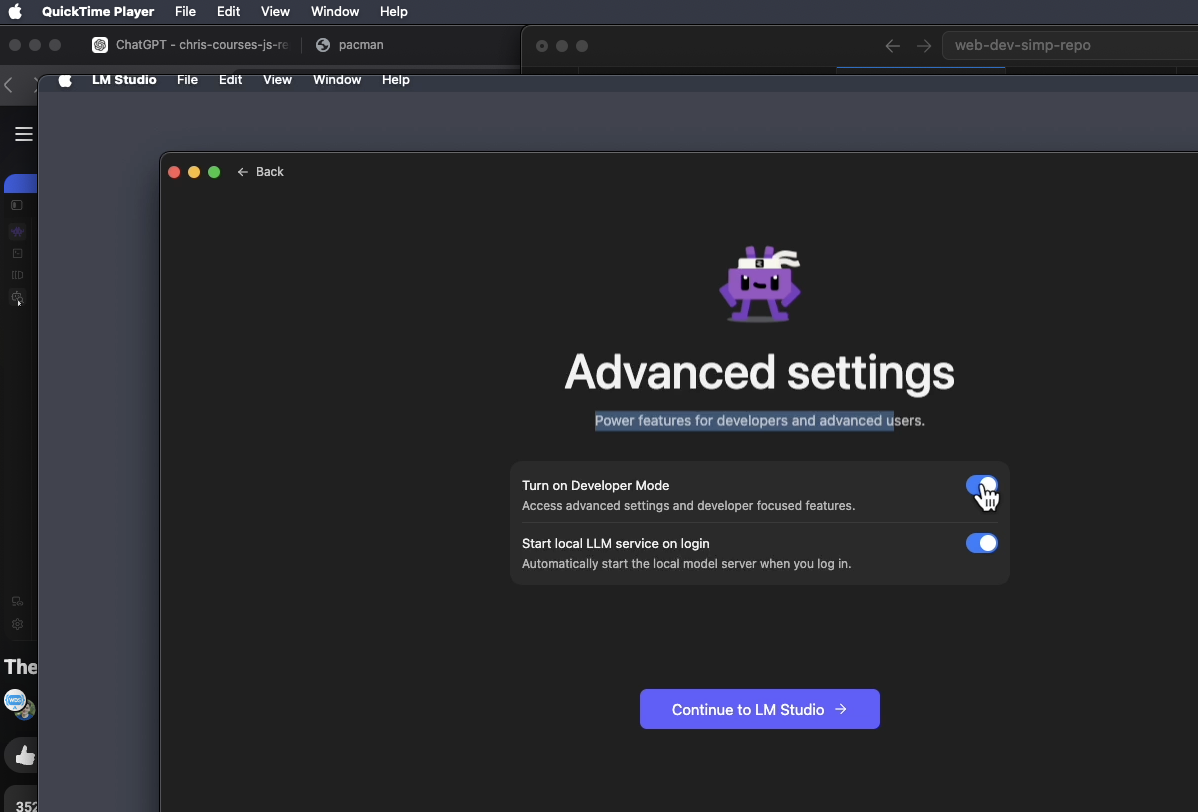
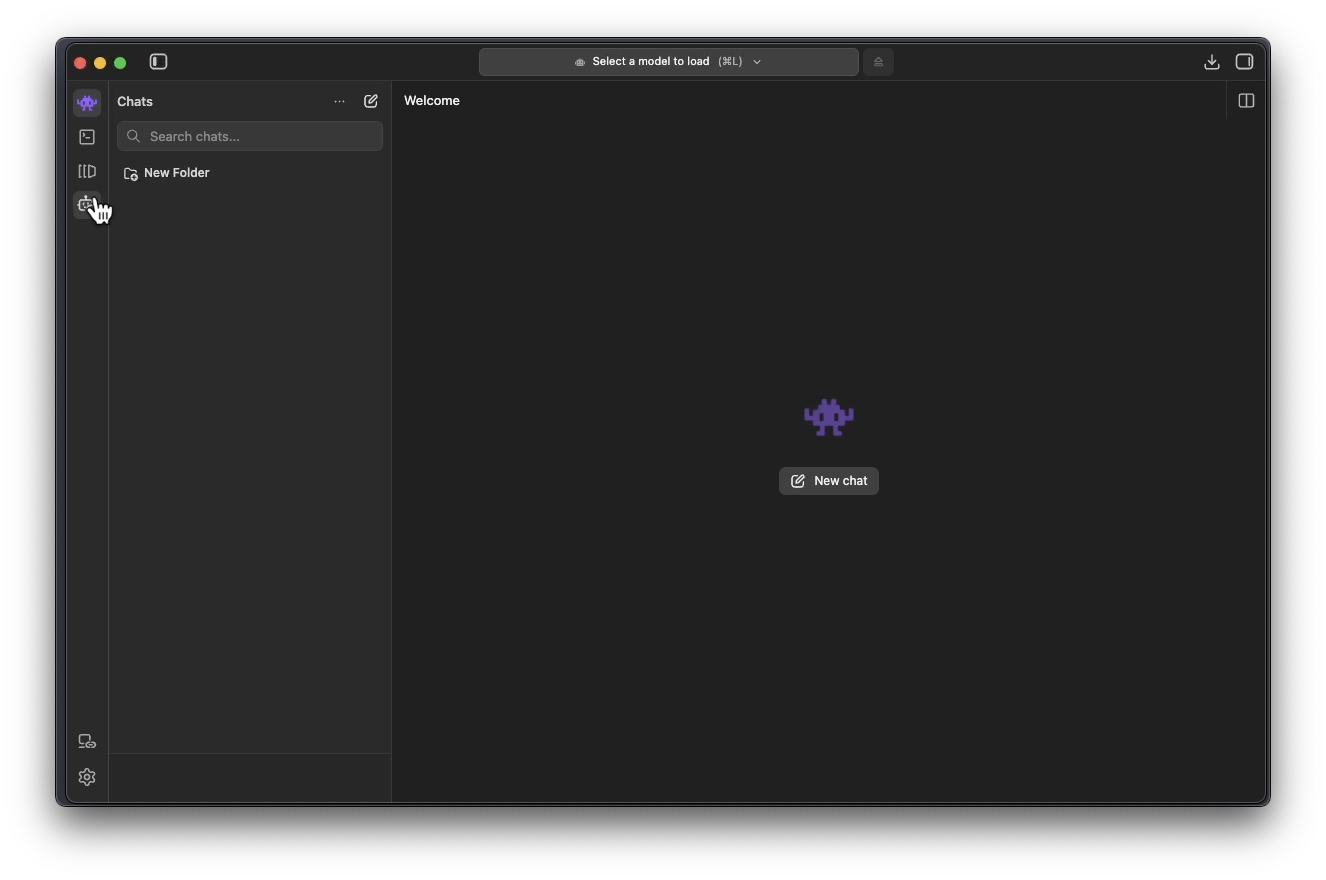
main

diff --git a/topics/01-free-local-llms/side-bar-links-html/01/01.html b/topics/01-free-local-llms/side-bar-links-html/01/01.html
@@ -4,49 +4,60 @@
     <header>
         <h3 id="targetHeaderh3">1. Setup</h3>
     </header>
-    <div class="main-container">
-        <div class="steps-container">
-            <!-- 1.-->
-            <div  tabindex="0" class="step-float" data-video="https://www.youtube.com/watch?v=UngVdAsQEiU" 
-                data-timestamp="335">
+    <div class="steps-container">
+        <!-- 1.-->
+        <div  tabindex="0" class="step-float" data-video="https://www.youtube.com/watch?v=UngVdAsQEiU" 
+            data-timestamp="335">
+            <div class="img-container">
+                <div class="step-vid ">
+                    <video preload="none" playsinline webkit-playsinline poster="side-bar-links-html/01/01-01/images/01.png"
+                        src="side-bar-links-html/01/01-01/images/01.mov"></video>
+                
+                    <div class="vid-cntrl-btns">
+                        <button class="fwdBtn">&lt;&lt;</button>
+                        <button class="playbtn">></button>
+                        <button class="rwdBtn">>></button>
+                    </div>
+                </div>
                 <div class="step-img">
                     <img loading="lazy" src="side-bar-links-html/01/images/01.png" alt="">
                 </div>
-                <div class="step-txt ">
-                    <h4>01</h4>
-                    <p>
-                        Download <i>LM Studio </i> from 
-                        <a rel="noopener noreferrer" target="_blank" href="https://lmstudio.ai/">
-https://lmstudio.ai/
-                        </a>
-                        <p>
-                            **Make sure developer mode is on when you first open
-                        </p>
-                        <p>
-                            see 01-01 step 1 put that here in imgs-container with video, make it work like 
-                            in  <a href="">tech-with-tim-repo</a>
-                             video controls and imgs-container
-                        </p>
-                    </p>
-                
-                </div>
-            </div>
-            <div tabindex="0" class="step-float" data-video="https://www.youtube.com/watch?v=UngVdAsQEiU" 
-                data-timestamp="348">
-                <div class="step-img">
-                    <img loading="lazy" src="side-bar-links-html/01/images/02.png" alt="">
-                </div>
-                <div class="step-txt ">
-                    <h4>02</h4>
-                    <p>
-                        You can find models to use at huggin face
-                        <a rel="noopener noreferrer" target="_blank" href="https://huggingface.co/models">
-                            https://huggingface.co/models
-                        </a>
-                    </p>
-                </div>
-            </div>
 
-    </div>
+            </div>
+            <div class="step-txt ">
+                <h4>01</h4>
+                <p>
+                    Download <i>LM Studio </i> from 
+                    <a rel="noopener noreferrer" target="_blank" href="https://lmstudio.ai/">
+https://lmstudio.ai/
+                    </a>
+                    <p>
+                        **Make sure developer mode is on when you first open
+                    </p>
+                    <p>
+                        see 01-01 step 1 put that here in imgs-container with video, make it work like 
+                        in  <a href="">tech-with-tim-repo</a>
+                            video controls and imgs-container
+                    </p>
+                </p>
+            <h5 class="r">Fix imgs-container</h5>
+            </div>
+        </div>
+        <div tabindex="0" class="step-float" data-video="https://www.youtube.com/watch?v=UngVdAsQEiU" 
+            data-timestamp="348">
+            <div class="step-img">
+                <img loading="lazy" src="side-bar-links-html/01/images/02.png" alt="">
+            </div>
+            <div class="step-txt ">
+                <h4>02</h4>
+                <p>
+                    You can find models to use at huggin face
+                    <a rel="noopener noreferrer" target="_blank" href="https://huggingface.co/models">
+                        https://huggingface.co/models
+                    </a>
+                </p>
+            </div>
+        </div>
+
     </div>
 </div>

diff --git a/topics/01-free-local-llms/side-bar-links-html/01/01-01/01-01.html b/topics/01-free-local-llms/side-bar-links-html/01/01-01/01-01.html
@@ -2,41 +2,15 @@
 <div id="targetDiv">
     <div class="main-container">
         <header>
-            <h3 id="targetHeaderh3" >1.1 model in Lm Studio </h3>
+            <h3 id="targetHeaderh3" >01-02 figure out </h3>
         </header>
         <div class="steps-container">
             <!-- 1. -->
-            <div data-autofocus tabindex="0" class="step-float" data-video="https://www.youtube.com/watch?v=UngVdAsQEiU"
-                data-timestamp="359">
+            <div tabindex="0" class="step-float" data-video="https://www.youtube.com/watch?app=desktop&v=pg19Z8LL06w"
+                data-timestamp="367">
                 <div class="step-vid ">
                     <video preload="none" playsinline webkit-playsinline poster="side-bar-links-html/01/01-01/images/01.png"
                         src="side-bar-links-html/01/01-01/images/01.mov"></video>
-
-                    <div class="vid-cntrl-btns">
-                        <button class="fwdBtn">&lt;&lt;</button>
-                        <button class="playbtn">></button>
-                        <button class="rwdBtn">>></button>
-                    </div>
-                </div>
-                <div class="step-content ">
-                    <h4>1</h4>
-                    <p>
-                        **Make sure developer mode is on when you first open
-                    </p>
-                    <p>
-                        when you first open LM, studio, you will not be
-                        able to select a model 
-                    </p>
-                   
-                </div>
-                
-            </div>
-            <!-- 2. -->
-            <div tabindex="0" class="step-float" data-video="https://www.youtube.com/watch?v=UngVdAsQEiU" 
-                data-timestamp="367">
-                <div class="step-vid ">
-                    <video preload="none" playsinline webkit-playsinline poster="side-bar-links-html/01/01-01/images/02.png"
-                        src="side-bar-links-html/01/01-01/images/02.mov"></video>
                 
                     <div class="vid-cntrl-btns">
                         <button class="fwdBtn">&lt;&lt;</button>
@@ -49,20 +23,19 @@
                     <p>
                         Click models tab in the left side to search for models
                     </p>
-                    
+                
                 </div>
             </div>
-            <!-- 3. -->
-            <div tabindex="0" class="step-float" data-video="https://www.youtube.com/watch?v=UngVdAsQEiU"
+            <!-- 2. -->
+            <div tabindex="0" class="step-float" data-video="https://www.youtube.com/watch?app=desktop&v=pg19Z8LL06w"
                 data-timestamp="380">
                 <div class="step-img">
-                    <img loading="lazy" src="side-bar-links-html/01/01-01/images/01.png" alt="">
-                </div>
-                    
+                    <img loading="lazy" src="side-bar-links-html/01/01-01/images/02.png" alt="">
+                </div>                
                 <div class="step-content ">
-                    <h4>3</h4>
+                    <h4>2</h4>
                     <p>
-                        He searches and is using 
+                        He searches and is using
                     </p>
                     <div class="code-container">
                         <pre readonly tabindex="0" class="copy-code">qwen</pre>
@@ -70,6 +43,29 @@
                     <p>
                         in this tutorial
                     </p>
+                </div>
+            </div>
+            <!-- 3. -->
+            <div tabindex="0" class="step-float" data-video="https://www.youtube.com/watch?app=desktop&v=pg19Z8LL06w"
+                data-timestamp="380">
+                <div class="step-vid ">
+                    <video preload="none" playsinline webkit-playsinline poster="side-bar-links-html/01/01-01/images/03.png"
+                        src="side-bar-links-html/01/01-01/images/03.mov"></video>
+                
+                    <div class="vid-cntrl-btns">
+                        <button class="fwdBtn">&lt;&lt;</button>
+                        <button class="playbtn">></button>
+                        <button class="rwdBtn">>></button>
+                    </div>
+                </div>
+                <div class="step-content ">
+                    <h4>03</h4>
+                    <p>
+                  Each model has,usually, parameter in name, size is located under 'Download Options',
+                  click to view <i>Quantiziation options</i>,
+
+                    </p>
+                    
                 </div>
             </div>
             

diff --git a/topics/01-free-local-llms/side-bar-links-html/01/01-02/01-02.html b/topics/01-free-local-llms/side-bar-links-html/01/01-02/01-02.html
@@ -6,38 +6,21 @@
         </header>
         <div class="steps-container">
             <!-- 01 -->
-            <div tabindex="0" class="step-float" data-video="https://www.youtube.com/watch?app=desktop&v=pg19Z8LL06w" 
-                data-timestamp="1200">
-                <h4>01</h4>
-                <div class="step-img">
-                    <img loading="lazy" src="side-bar-links-html/01/01-01/images/01.png" alt="">
-                </div>
+            <div tabindex="0" class="step-float" data-video="https://www.youtube.com/watch?app=desktop&v=pg19Z8LL06w"
+                data-timestamp="380">
+            
                 <div class="step-content ">
+                    <h4>04</h4>
                     <p>
-                        Use the following format when <i>single-shot</i> prompting for automated ai usage,
-                        save tokens, research found here <a tabindex="0" href="#">find link</a>
+                        <i>Quantiziation options</i> are smaller versions rounding , base 16 is largest,
+                        4 is about a quarter size less, go for these
+            
                     </p>
-                    <ul>
-                        <li><strong>R</strong>ole</li>
-                        <li><strong>T</strong>ask</li>
-                        <li><strong>S</strong>pecifics</li>
-                        <li><strong>C</strong>ontext</li>
-                        <li><strong>E</strong>xample</li>
-                        <li><strong>N</strong>otes</li>
-                    </ul>
-                </div>
-                <div class="code-container">
-                    <pre  tabindex="0" class="copy-code">
-ALmost Done
-                    </pre>
-                </div>
-                <div class="code-container">
-                    <pre readonly tabindex="0" class="copy-code">
-TBD PROMPT</pre>
+            
                 </div>
             </div>
             <!-- 2. -->
-            <div tabindex="0" class="step-float" data-video="https://www.youtube.com/watch?app=desktop&v=pg19Z8LL06w"
+            <!-- <div tabindex="0" class="step-float" data-video="https://www.youtube.com/watch?app=desktop&v=pg19Z8LL06w"
                 data-timestamp="1200">
                 <h4>02</h4>
                 <div class="step-vid ">
@@ -62,9 +45,9 @@ TBD PROMPT</pre>
                 TBD PROMPT</pre>
                     </div>
                 </div>
-            </div>
+            </div> -->
             <!-- 3. -->
-            <div tabindex="0" class="step-float" data-video="https://www.youtube.com/watch?app=desktop&v=pg19Z8LL06w"
+            <!-- <div tabindex="0" class="step-float" data-video="https://www.youtube.com/watch?app=desktop&v=pg19Z8LL06w"
                 data-timestamp="1200">
                 <div class="step-vid">
                     <video preload="none"  playsinline webkit-playsinline poster="side-bar-links-html/01/01-01/images/01.png"
@@ -89,9 +72,9 @@ TBD PROMPT</pre>
 TBD PROMPT</pre>
                     </div>
                 </div>
-            </div>
+            </div> -->
             <!-- 4. -->
-            <div tabindex="0" class="step-float" data-video="https://www.youtube.com/watch?app=desktop&v=pg19Z8LL06w"
+            <!-- <div tabindex="0" class="step-float" data-video="https://www.youtube.com/watch?app=desktop&v=pg19Z8LL06w"
                 data-timestamp="1200">
                 <div class="step-vid ">
                     <video preload="none"  playsinline webkit-playsinline poster="side-bar-links-html/02/images/01.png"
@@ -116,7 +99,7 @@ TBD PROMPT</pre>
 TBD PROMPT</pre>
                     </div>
                 </div>
-            </div>
+            </div> -->
         </div>
     </div>
 </div>

diff --git a/topics/01-free-local-llms/01-free-local-llms.html b/topics/01-free-local-llms/01-free-local-llms.html
@@ -64,12 +64,12 @@
                                 data-timestamp="320" 
                                 href="side-bar-links-html/01/01.html">setup</a>
                             <ul class="drop-snips show">
-                                <li><a autofocus   href="side-bar-links-html//01/01-01/01-01.html" data-video="https://www.youtube.com/watch?v=UngVdAsQEiU"
+                                <li><a    href="side-bar-links-html//01/01-01/01-01.html" data-video="https://www.youtube.com/watch?v=UngVdAsQEiU"
                                      data-timestamp="358" 
                                     >models in LM Studio</a></li>  
                                 <li><a  href="side-bar-links-html//01/01-02/01-02.html" data-video="https://www.youtube.com/watch?v=UngVdAsQEiU"
                                      data-timestamp="2202">
-                                    TBD 2</a></li>  
+                                    Model </a></li>  
                                 <li><a href="side-bar-links-html/01/01-03/01-03.html">TBD 3</a></li>  
                             </ul>
                         </li>

diff --git a/topics/01-free-local-llms/css/utilities/sizing.css b/topics/01-free-local-llms/css/utilities/sizing.css
@@ -1,3 +1,6 @@
+#mainTargetDiv{
+    width: 100%;
+}
 #tutorialLink {
     display: inline-flex;
 }